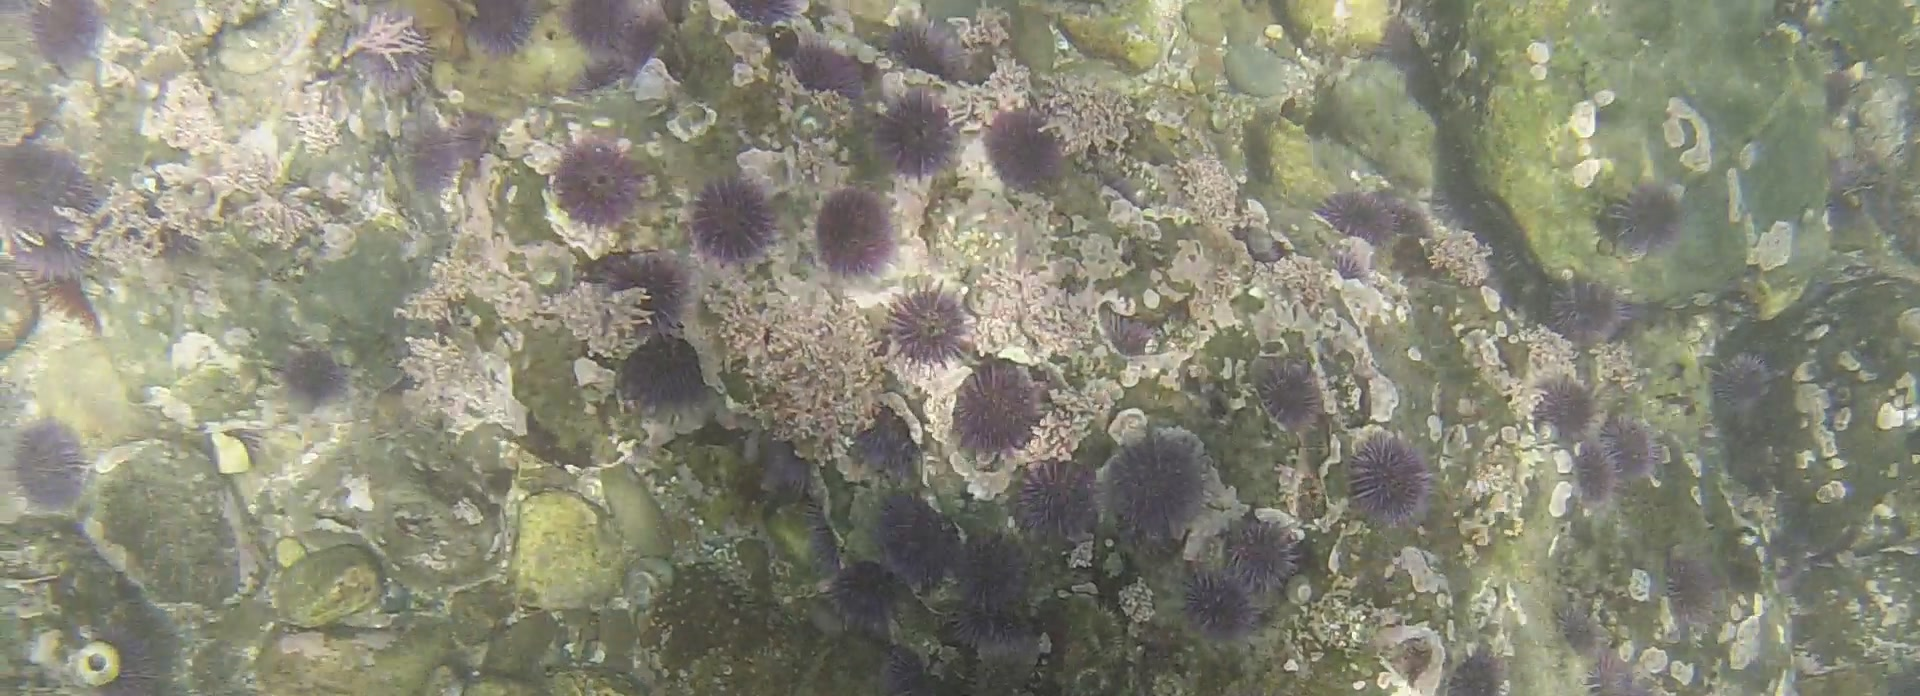
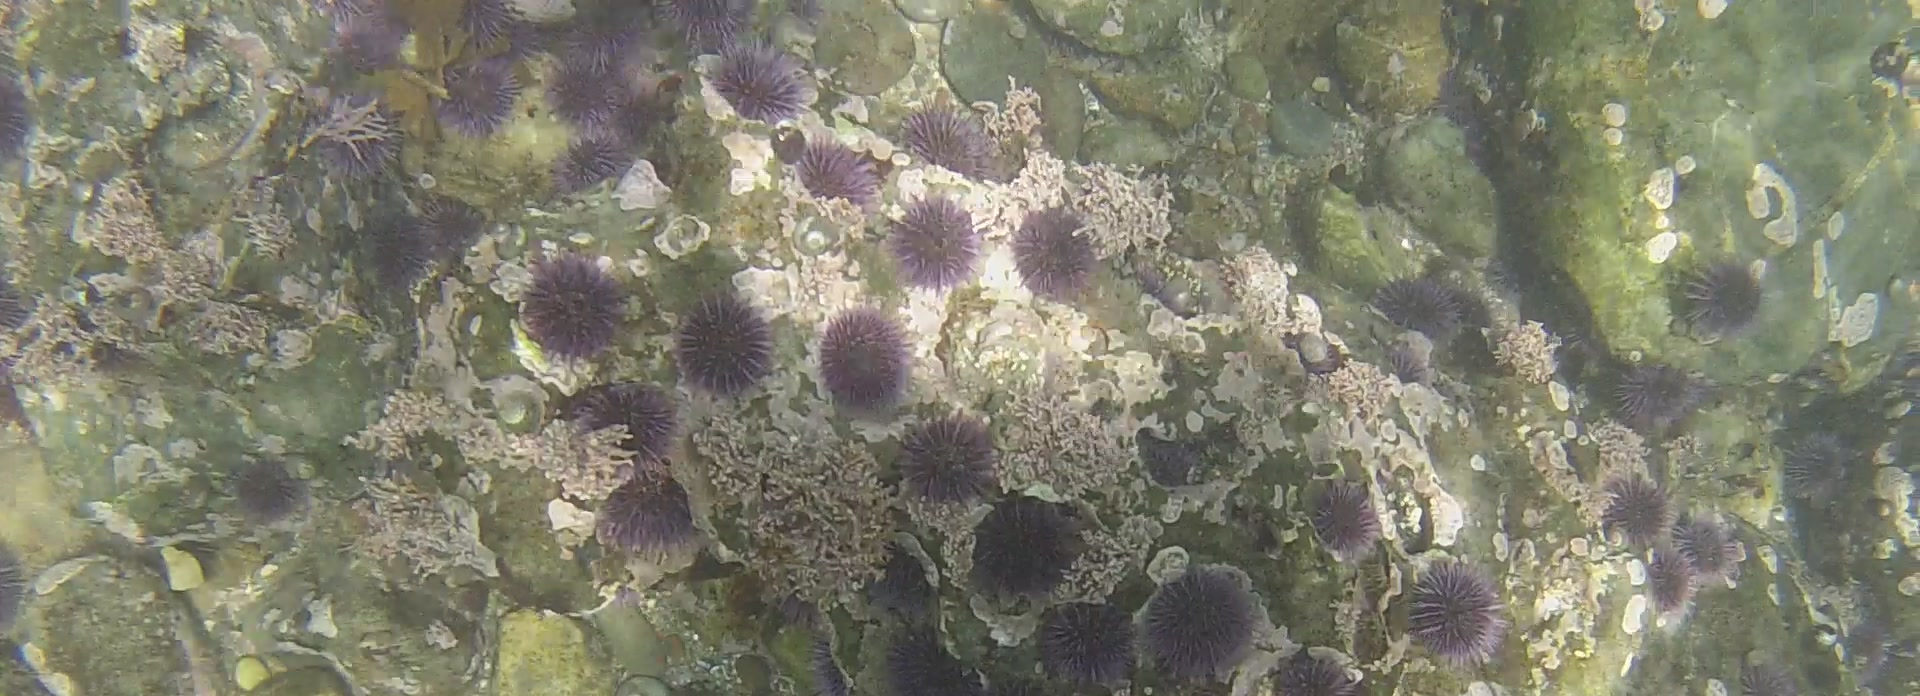
try 4 fps

diff --git a/README.md b/README.md
@@ -19,7 +19,7 @@ https://www.youtube.com/watch?v=ZTDMWTITeCo
 
 ```bash
 # may require: sudo apt-get install ffmpeg
-ffmpeg -i ../GP010036.MP4 -ss 05:15 -t 00:00:05 -vf "crop=in_w:in_h-384:0:0,fps=3" -qscale:v 1 images/frame%05d.jpg
+ffmpeg -i ../GP010036.MP4 -ss 05:15 -t 00:00:05 -vf "crop=in_w:in_h-384:0:0,fps=4" -qscale:v 1 images/frame%05d.jpg
 ```
 
 
